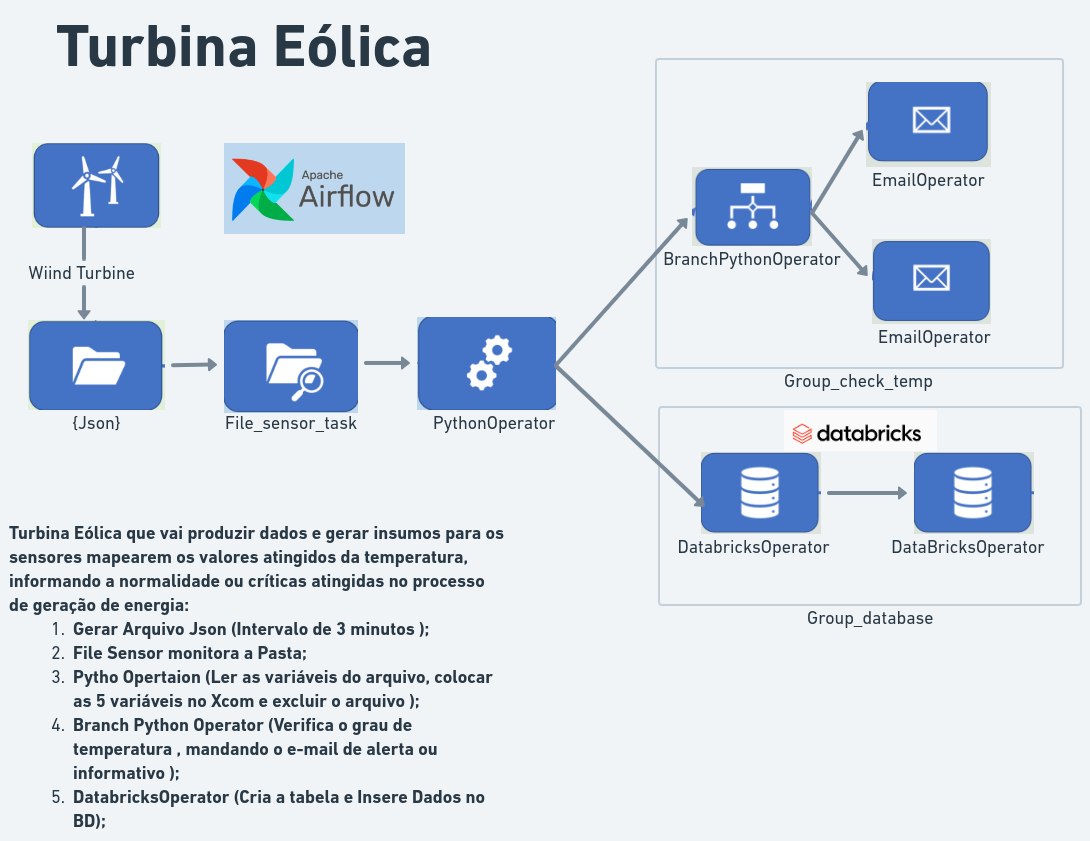
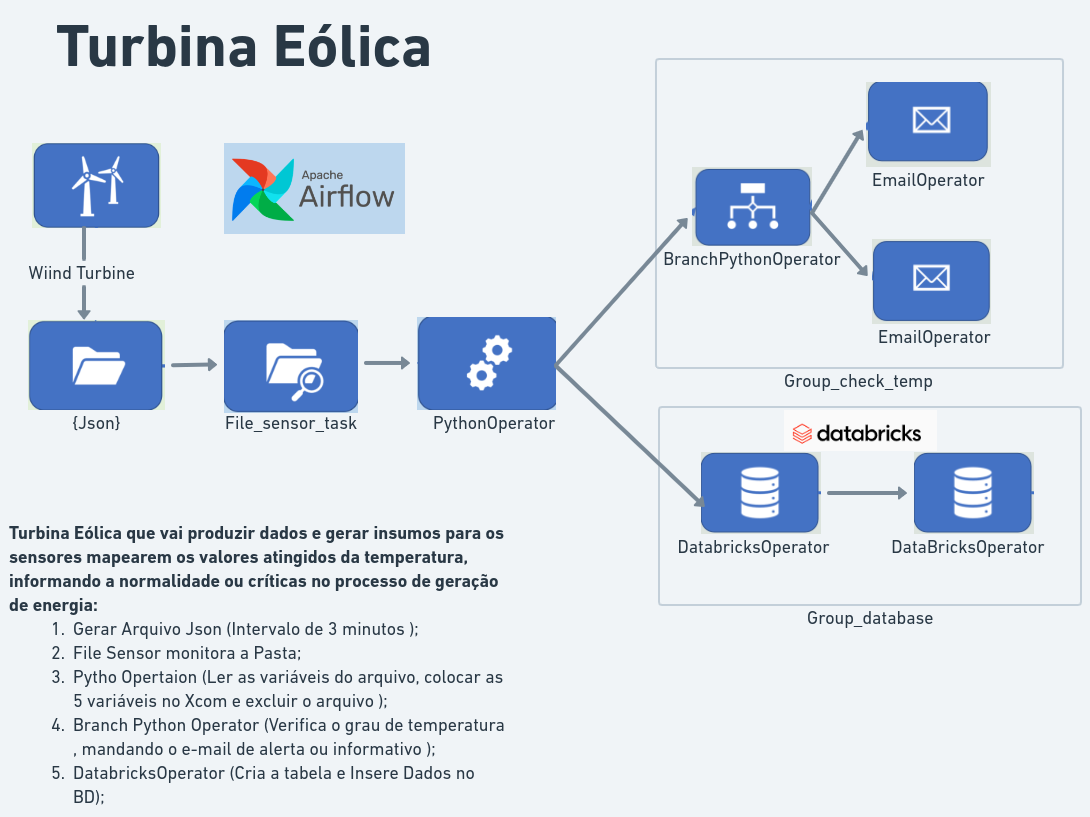
add link

diff --git a/README.md b/README.md
@@ -8,7 +8,7 @@
 
 ## 2) DEFINIÇÃO INGESTÃO EM DADOS (LOCAL DA ORIGEM, PODE JA EXISTIR OU PODE SER GERADO)
  
-  Turbina Eólica que vai produzir dados e gerar insumos para os sensores mapearem os valores atingidos da temperatura, informando a normalidade ou críticas atingidas no processo de geração de energia
+  Turbina Eólica que vai produzir dados e gerar insumos para os sensores mapearem os valores atingidos da temperatura, informando a normalidade ou críticas no processo de geração de energia
 
 ## 3) DEFINIÇÃO ARQUITETURA (DESENHO NO MINIMO DE 2 PARTES DO TODO INGESTÃO E AMAZENAMENTO)
   <p> Link whimsical <a href="https://whimsical.com/turbina-eolica-vertical-HapdrJPBcaozePY3FjXv25">https://whimsical.com/turbina-eolica-vertical</a></p>
